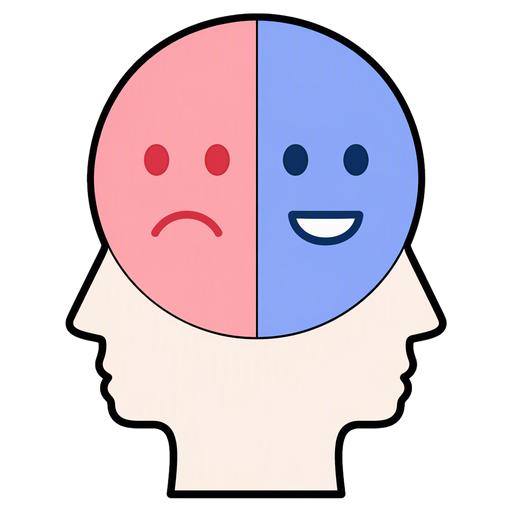
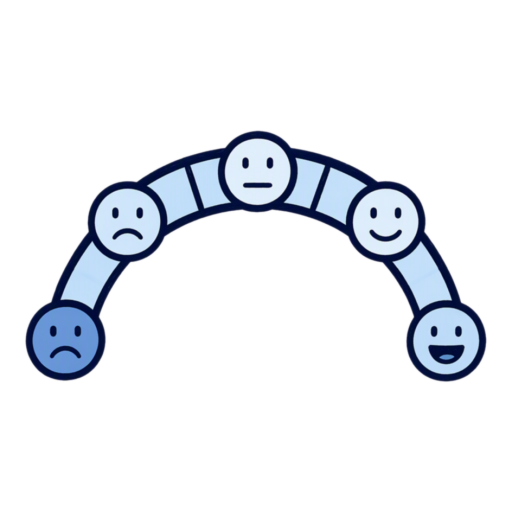
更新：标题简化、神经递质合并选色、新增计算与工程心理学分类（100 图标 / 15 分类）

diff --git a/index.html b/index.html
@@ -3,7 +3,7 @@
 <head>
 <meta charset="UTF-8">
 <meta name="viewport" content="width=device-width, initial-scale=1.0">
-<title>心理学图标库 · 原图高清版</title>
+<title>心理学主题图标库</title>
 <style>
   :root{
     --ink:#31435B; --blue:#4A90D9; --teal:#3AA6A6;
@@ -13,11 +13,7 @@
   body{font-family:"PingFang SC","Microsoft YaHei",-apple-system,sans-serif;background:var(--bg);color:var(--ink)}
   header{background:linear-gradient(135deg,#2E4A6B,#3D6B8E 60%,#3AA6A6);color:#fff;padding:40px 24px 32px}
   .wrap{max-width:1180px;margin:0 auto;padding:0 24px}
-  header h1{font-size:27px;letter-spacing:1px}
-  header p{margin-top:10px;font-size:13.5px;opacity:.85}
-  .stats{display:flex;gap:12px;margin-top:18px;flex-wrap:wrap}
-  .stat{background:rgba(255,255,255,.14);border:1px solid rgba(255,255,255,.25);border-radius:10px;padding:7px 15px;font-size:13px}
-  .stat b{font-size:18px;margin-right:4px}
+  header h1{font-size:25px;letter-spacing:1px}
   .toolbar{position:sticky;top:0;z-index:20;background:rgba(246,248,251,.94);backdrop-filter:blur(8px);border-bottom:1px solid var(--line);padding:13px 0}
   .toolbar .wrap{display:flex;gap:10px;align-items:center;flex-wrap:wrap}
   #search{flex:1;min-width:200px;padding:10px 16px;border:1.5px solid var(--line);border-radius:10px;font-size:14px;outline:none;background:#fff;color:var(--ink)}
@@ -40,6 +36,12 @@
   .card:hover .quick{display:flex}
   .qbtn{border:1px solid var(--line);background:#fff;border-radius:7px;font-size:10.5px;padding:3px 7px;cursor:pointer;color:var(--ink)}
   .qbtn:hover{background:var(--ink);color:#fff}
+  .swatches{position:absolute;bottom:7px;left:0;right:0;display:none;justify-content:center;gap:6px}
+  .card:hover .swatches{display:flex}
+  .sw{width:15px;height:15px;border-radius:50%;border:1.5px solid #fff;box-shadow:0 0 0 1px var(--line);cursor:pointer}
+  .sw.on{box-shadow:0 0 0 2px var(--ink)}
+  .panel-sw{display:flex;gap:8px;margin-top:10px}
+  .panel-sw .sw{width:20px;height:20px}
   #overlay{position:fixed;inset:0;background:rgba(30,42,60,.45);display:none;align-items:center;justify-content:center;z-index:50;padding:20px}
   #overlay.show{display:flex}
   #panel{background:#fff;border-radius:18px;width:min(560px,100%);max-height:88vh;overflow:auto;padding:26px}
@@ -59,13 +61,7 @@
 <body>
 <header>
   <div class="wrap">
-    <h1>心理学图标库 · 原图高清版</h1>
-    <p>基于原图逐个高清重绘 · 保留手绘风格与配色 · 1024×1024 透明背景 PNG · 点击图标可复制 / 下载</p>
-    <div class="stats">
-      <div class="stat"><b id="st-hd">–</b>个高清图标</div>
-      <div class="stat"><b id="st-cat">–</b>个分类</div>
-      <div class="stat">PNG 透明背景 · 可直接粘贴到 PPT / Word</div>
-    </div>
+    <h1>心理学主题图标库</h1>
   </div>
 </header>
 
@@ -77,11 +73,10 @@
 </div>
 
 <main class="wrap">
-  <div class="note">此图标库为基于原图逐个 AI 高清重绘的版本：保留手绘涂鸦风格与配色，透明背景 PNG，可一键复制或下载。</div>
   <div id="main" style="margin-top:6px"></div>
 </main>
 
-<footer><div class="wrap">「复制」把透明背景图标写入剪贴板，可直接粘贴到 PPT、Word、微信等支持图片粘贴的应用中。下载 zip 包获取全部图标文件。</div></footer>
+<footer><div class="wrap">透明背景 PNG · 可直接粘贴到 PPT / Word · 点击图标可复制或下载单张</div></footer>
 
 <div id="overlay">
   <div id="panel">
@@ -95,6 +90,7 @@
           <button class="btn ghost" id="p-download">下载 PNG</button>
           <button class="btn ghost" id="p-close">关闭</button>
         </div>
+        <div class="panel-sw" id="p-sw"></div>
       </div>
     </div>
   </div>
@@ -102,13 +98,11 @@
 <div id="toast"></div>
 
 <script>
-let DATA=[], curCat="全部", curQ="", curItem=null;
+let DATA=[], curCat="全部", curQ="", curItem=null, curPath=null;
 
 fetch("manifest2.json").then(r=>r.json()).then(data=>{
   DATA=data;
-  document.getElementById("st-hd").textContent=data.length;
   const cats=[...new Set(data.map(d=>d.cat))];
-  document.getElementById("st-cat").textContent=cats.length;
   const chips=document.getElementById("chips");
   ["全部",...cats].forEach(c=>{
     const b=document.createElement("button");
@@ -134,10 +128,28 @@ function render(){
     items.forEach(d=>{
       const card=document.createElement("div");
       card.className="card";
+      card.dataset.path=d.path;
+      let swHTML="";
+      if(d.variants){
+        swHTML=`<div class="swatches">`+d.variants.map((v,i)=>
+          `<span class="sw${i===0?" on":""}" data-i="${i}" style="background:${v.color}" title="${v.name}"></span>`).join("")+`</div>`;
+      }
       card.innerHTML=`<div class="quick"><button class="qbtn" data-a="copy">复制</button><button class="qbtn" data-a="dl">下载</button></div>
-        <div class="icobox"><img src="${d.path}" loading="lazy"></div><div class="zh">${d.zh}</div><div class="slug">${d.slug}</div>`;
-      card.querySelector('[data-a="copy"]').onclick=e=>{e.stopPropagation();copyPNG(d);};
-      card.querySelector('[data-a="dl"]').onclick=e=>{e.stopPropagation();downloadPNG(d);};
+        <div class="icobox"><img src="${d.path}" loading="lazy"></div><div class="zh">${d.zh}</div><div class="slug">${d.slug}</div>`+swHTML;
+      if(d.variants){
+        card.querySelectorAll(".sw").forEach(sw=>{
+          sw.onclick=e=>{
+            e.stopPropagation();
+            const v=d.variants[+sw.dataset.i];
+            card.dataset.path=v.path;
+            card.querySelector("img").src=v.path;
+            card.querySelectorAll(".sw").forEach(x=>x.classList.remove("on"));
+            sw.classList.add("on");
+          };
+        });
+      }
+      card.querySelector('[data-a="copy"]').onclick=e=>{e.stopPropagation();copyPNG(d,card.dataset.path);};
+      card.querySelector('[data-a="dl"]').onclick=e=>{e.stopPropagation();downloadPNG(d,card.dataset.path);};
       card.onclick=()=>openPanel(d);
       grid.appendChild(card);
     });
@@ -147,27 +159,41 @@ function render(){
 }
 
 function openPanel(d){
-  curItem=d;
+  curItem=d; curPath=d.path;
   document.getElementById("p-preview").innerHTML=`<img src="${d.path}">`;
   document.getElementById("p-title").textContent=d.zh;
   document.getElementById("p-meta").textContent=`${d.cat} · ${d.path}`;
+  const sw=document.getElementById("p-sw"); sw.innerHTML="";
+  if(d.variants){
+    d.variants.forEach((v,i)=>{
+      const s=document.createElement("span");
+      s.className="sw"+(i===0?" on":""); s.style.background=v.color; s.title=v.name;
+      s.onclick=()=>{
+        curPath=v.path;
+        document.querySelector("#p-preview img").src=v.path;
+        document.getElementById("p-meta").textContent=`${d.cat} · ${v.path}`;
+        sw.querySelectorAll(".sw").forEach(x=>x.classList.remove("on")); s.classList.add("on");
+      };
+      sw.appendChild(s);
+    });
+  }
   document.getElementById("overlay").classList.add("show");
 }
 document.getElementById("p-close").onclick=()=>document.getElementById("overlay").classList.remove("show");
 document.getElementById("overlay").onclick=e=>{if(e.target.id==="overlay")e.target.classList.remove("show");};
 
-async function copyPNG(d){
+async function copyPNG(d,path){
   try{
-    const r = await fetch(d.path);
+    const r = await fetch(path||d.path);
     const blob = await r.blob();
     await navigator.clipboard.write([new ClipboardItem({"image/png":blob})]);
     toast("已复制 PNG 图片，可直接粘贴");
   }catch(e){ toast("复制失败，请使用下载"); }
 }
-document.getElementById("p-copy").onclick=()=>copyPNG(curItem);
-function downloadPNG(d){
+document.getElementById("p-copy").onclick=()=>copyPNG(curItem,curPath);
+function downloadPNG(d,path){
   const a=document.createElement("a");
-  a.href=d.path; a.download=d.slug+".png"; a.click();
+  a.href=path||d.path; a.download=d.slug+".png"; a.click();
   toast("已开始下载 "+d.slug+".png");
 }
 document.getElementById("p-download").onclick=()=>downloadPNG(curItem);

diff --git a/README.md b/README.md
@@ -7,16 +7,27 @@ https://grayballtree.github.io/psychology-icons/
 
 ## 这里有什么
 
-99 个图标，全部为 **PNG · 512×512 · 透明背景**，风格统一（手绘涂鸦风、深蓝描边、柔和配色）。
+100 个图标，全部为 **PNG · 512×512 · 透明背景**，风格统一（手绘涂鸦风、深蓝描边、柔和配色）。
 
-## 分类（14 个，共 99 个图标）
+## 分类（15 个，共 100 个图标）
 
 | 分类 | 数量 |
 |---|---|
 | 神经科学基础 | 11 |
 | 脑功能与网络 | 7 |
 | 神经影像与调控技术 | 8 |
-| 神经化学与脑健康 | 9 |
+| 神经化学与脑健康 | 6 |
+| 认知过程 | 7 |
+| 情绪与情感 | 6 |
+| 心理健康与障碍 | 6 |
+| 自我与人格 | 5 |
+| 社会与人际 | 6 |
+| 跨文化心理 | 6 |
+| 积极心理 | 6 |
+| 发展与生命周期 | 6 |
+| 心理评估与测量 | 5 |
+| 计算与工程心理学 | 4 |
+| 心理咨询与治疗 | 11 |
 | 认知过程 | 7 |
 | 情绪与情感 | 6 |
 | 心理健康与障碍 | 6 |
